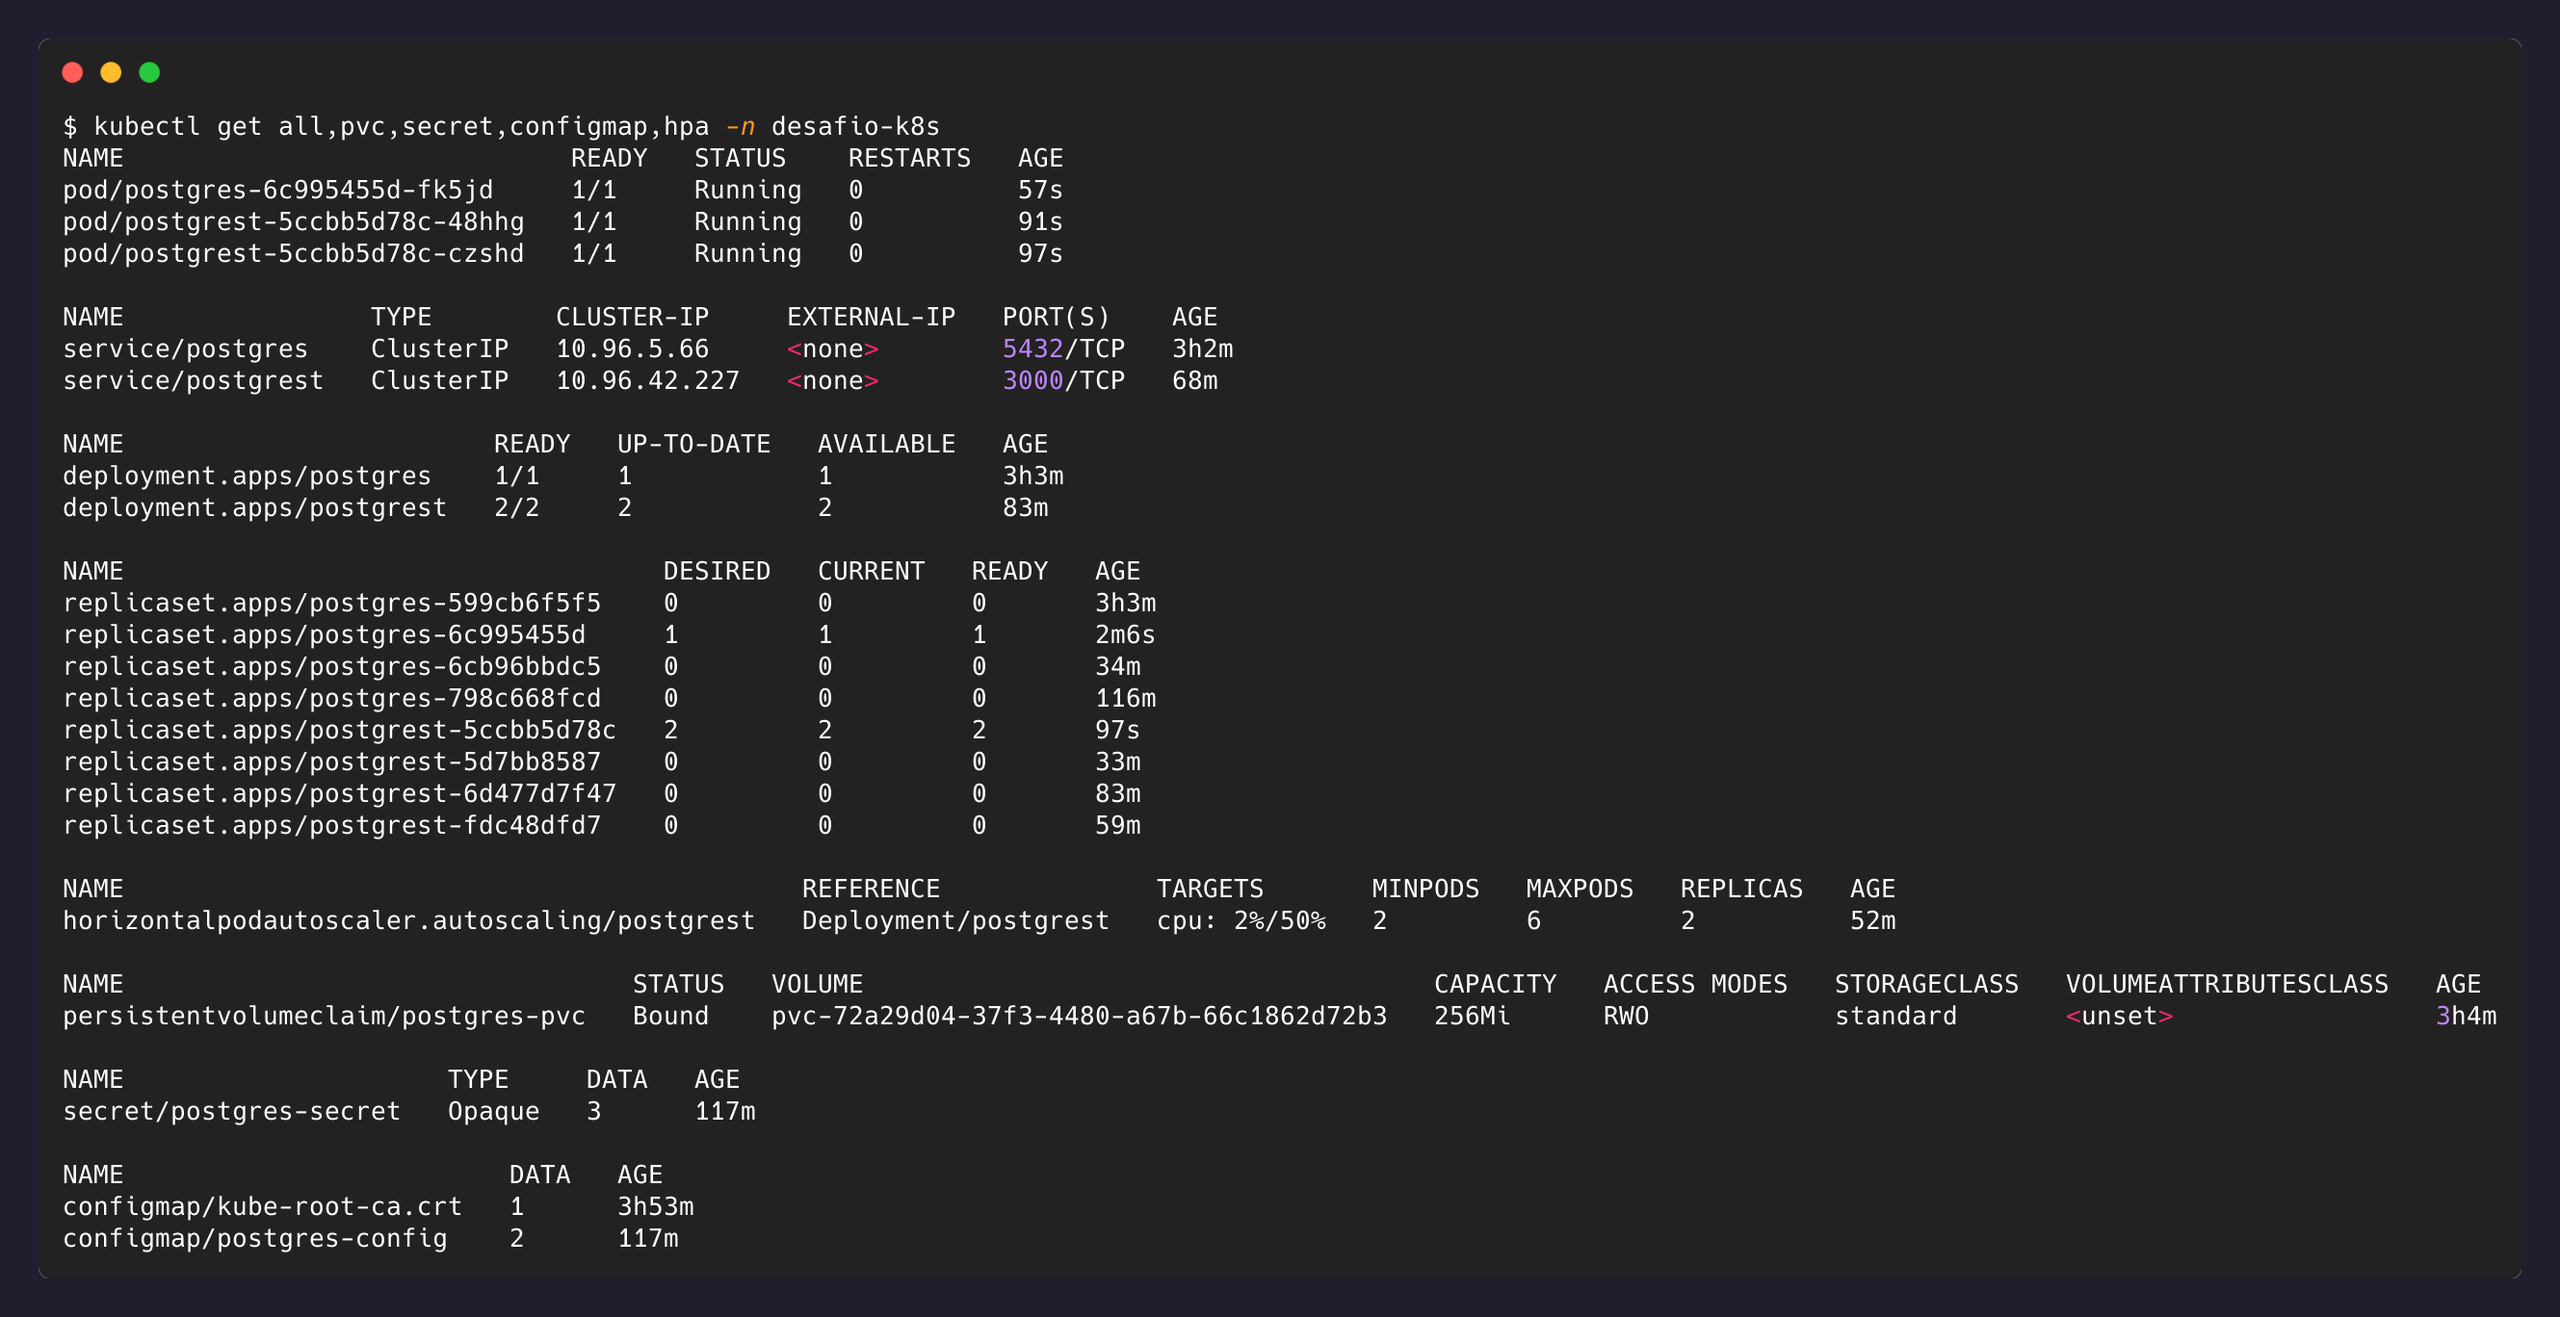
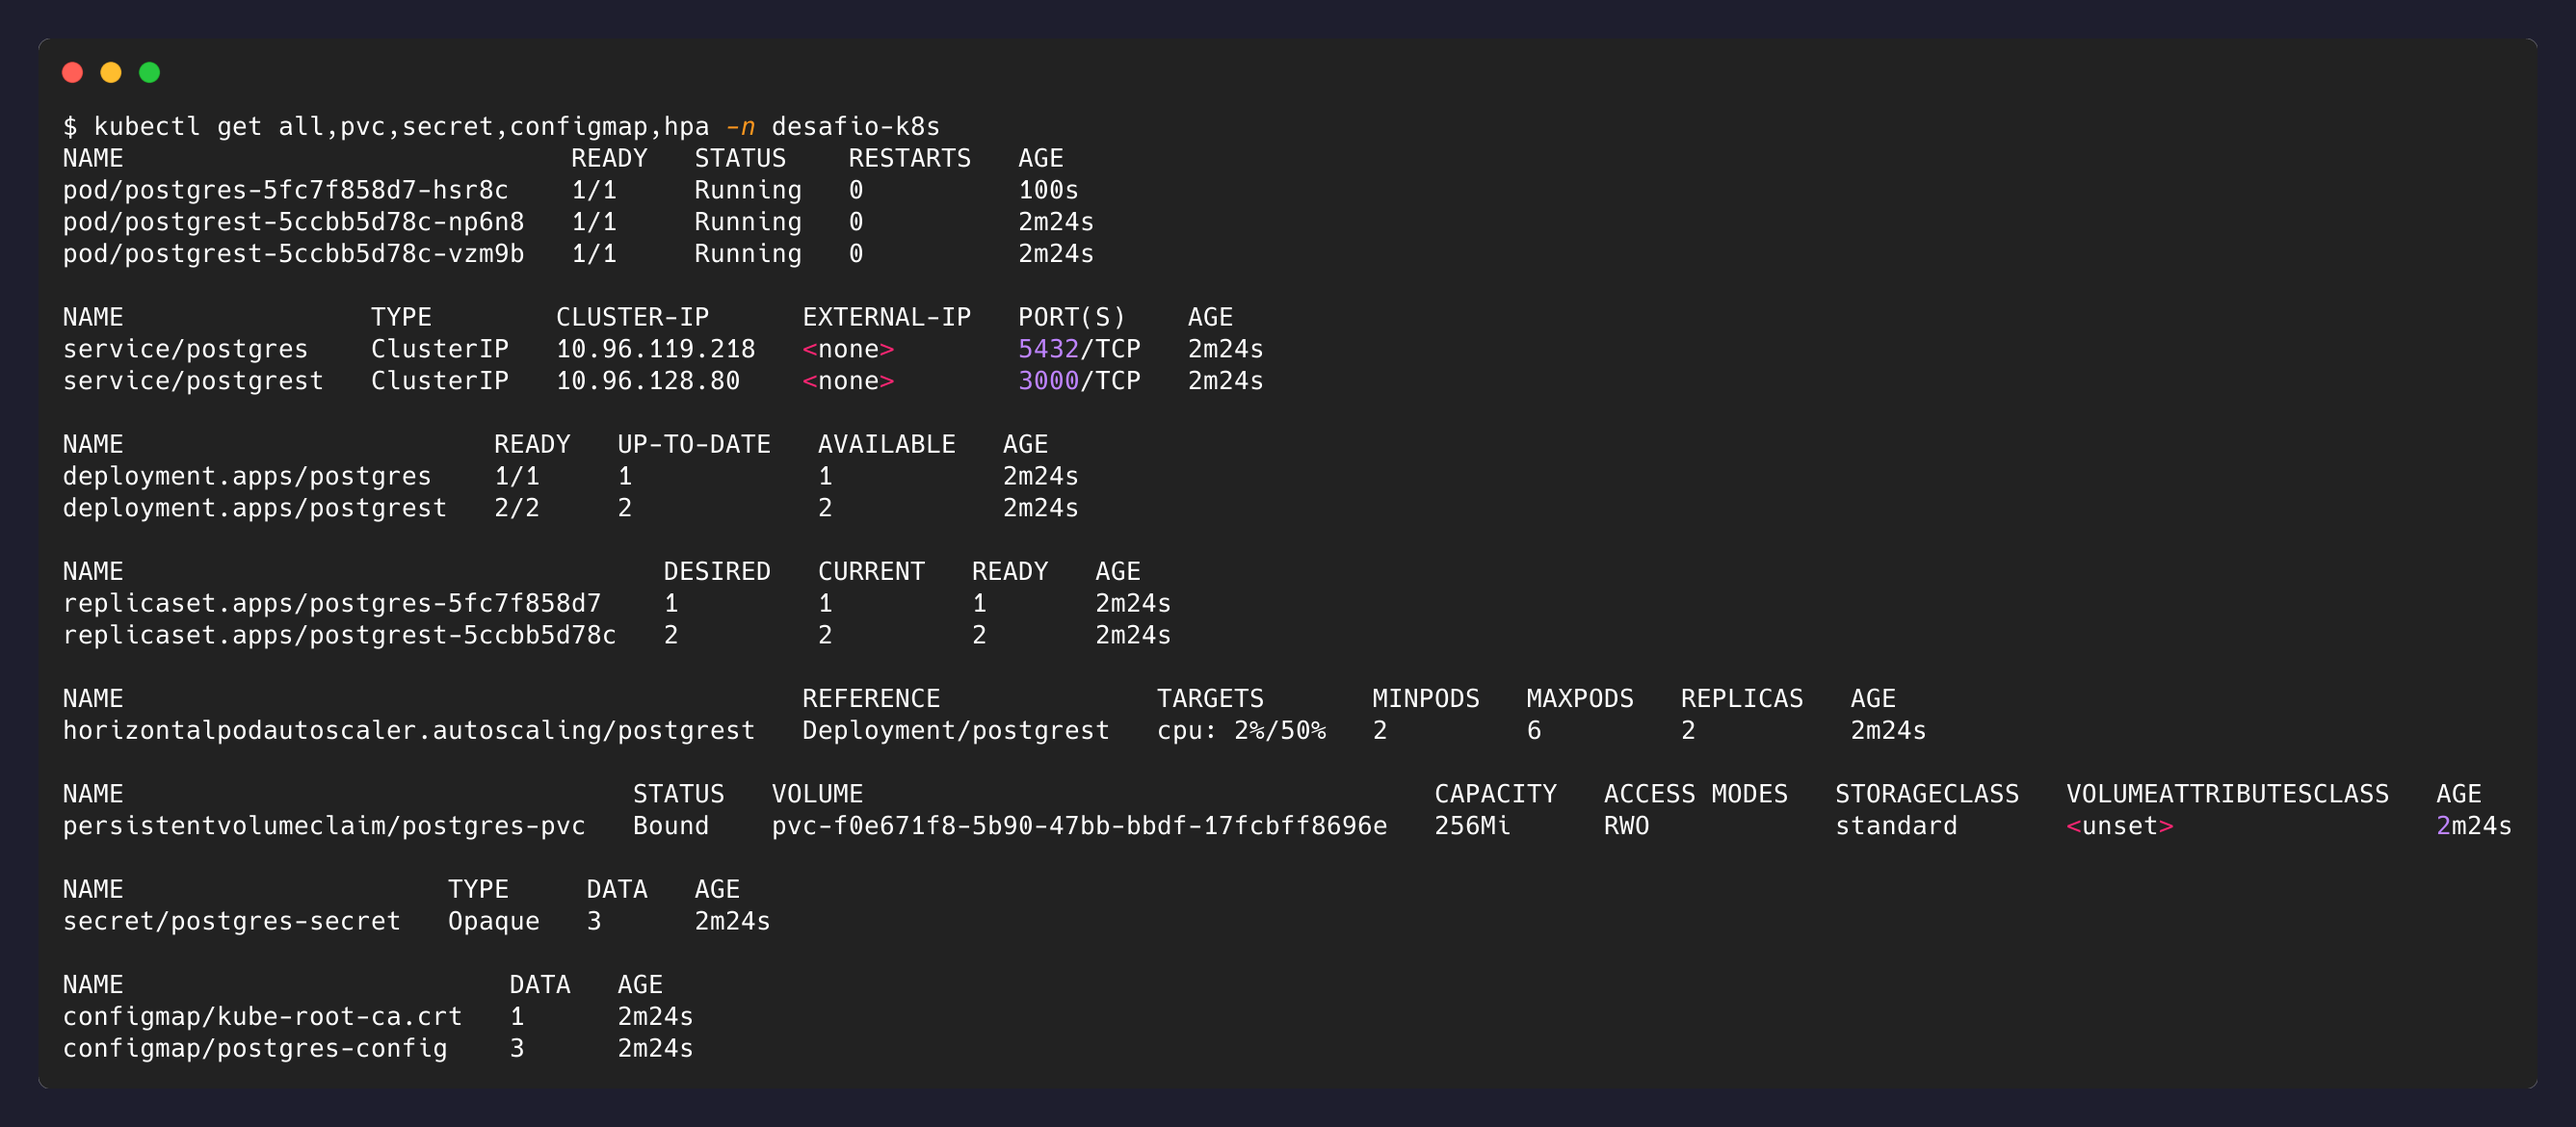
fix(k8s): auto-create todos table via docker-entrypoint-initdb.d
O cd.yml pegou isso rodando pela primeira vez num cluster efemero: a tabela
so existia porque foi criada manualmente via psql no nivel 4, nunca via
manifest. kubectl apply -f k8s/ sozinho agora deixa tudo funcional.

Changed region(s): [[0.0, 0.0308, 0.7807, 0.9538], [0.8119, 0.6769, 0.968, 0.8]]

diff --git a/docs/ci-cd.md b/docs/ci-cd.md
@@ -1,0 +1,61 @@
+# CI/CD
+
+## `ci.yml` — validação em Pull Requests
+
+Roda em todo PR para `develop` ou `main`. Três jobs independentes, todos **soft-fail**
+(reportam, não bloqueiam o merge — o objetivo aqui é visibilidade, não gate):
+
+- **kubeconform**: valida a sintaxe e o schema de cada manifest em `k8s/` contra a versão
+  do Kubernetes usada no projeto.
+- **Checkov**: escaneia `k8s/` em busca de configurações de segurança arriscadas. Os
+  achados reais dessa ferramenta guiaram boa parte de
+  [`docs/hardening-producao.md`](hardening-producao.md).
+- **Semgrep**: escaneia `tests/` (regras genéricas de qualidade/segurança em Python).
+
+## `cd.yml` — deploy e teste em push para `main`
+
+Roda em todo push pra `main` (ou seja, todo merge de PR, já que a branch é protegida).
+**Hard-fail** — se falhar, o job falha de verdade:
+
+1. Sobe um cluster `kind` efêmero (`helm/kind-action`) — do zero, sem nenhum estado
+   anterior.
+2. `kubectl apply -f k8s/`.
+3. Espera todos os Pods do namespace ficarem `Ready`.
+4. Roda `pytest tests/`, incluindo o teste automatizado de persistência.
+5. Em caso de falha, despeja os logs do Postgres e do PostgREST pra facilitar o debug.
+
+## Um bug real que o `cd.yml` encontrou na primeira execução
+
+Na primeira vez que o pipeline rodou de ponta a ponta, o passo "esperar Pods ficarem
+Ready" **falhou** — os dois Pods do PostgREST nunca saíam de `0/1`. O motivo, visível no
+`kubectl describe pod` capturado pelo próprio job de debug:
+
+```
+Warning  Unhealthy  Readiness probe failed: HTTP probe failed with statuscode: 404
+```
+
+A causa: a tabela `todos` nunca foi criada por nenhum manifest. Durante o Nível 4, ela
+foi criada manualmente com `kubectl exec ... psql -c "CREATE TABLE ..."` — um passo que
+existia só na minha cabeça (e no terminal), nunca no repositório. O cluster de
+desenvolvimento, rodando continuamente desde então, escondia esse problema: a tabela
+sempre esteve lá porque nunca recriei o volume do zero. O cluster efêmero do `cd.yml`,
+por definição, não tem esse histórico — e expôs exatamente a lacuna que testes manuais
+não pegam: **o que só existe na minha máquina não é reproduzível**.
+
+### Correção
+
+Movida a criação da tabela pro mecanismo nativo da imagem oficial do Postgres —
+qualquer script `.sql` colocado em `/docker-entrypoint-initdb.d/` roda automaticamente na
+**primeira inicialização** de um volume vazio. Implementado em
+[`k8s/02-postgres-configmap.yaml`](../k8s/02-postgres-configmap.yaml) (chave `init.sql`)
+montado como arquivo em
+[`k8s/04-postgres-deployment.yaml`](../k8s/04-postgres-deployment.yaml) via
+`volumeMounts` + `subPath`.
+
+Validado apagando o Namespace inteiro (forçando um volume genuinamente novo, replicando
+o cenário do cluster efêmero) e reaplicando `kubectl apply -f k8s/` do zero: todos os
+Pods ficaram `Ready` sozinhos, sem nenhum passo manual.
+
+Essa é exatamente a razão de ter um `cd.yml` com cluster efêmero em vez de só testar
+manualmente num cluster que já existe há dias — o ambiente de longa duração acumula
+estado que mascara passos esquecidos na automação.

diff --git a/README.md b/README.md
@@ -136,6 +136,8 @@ evidências e a resposta à pergunta de reflexão proposta:
 
 Decisões que vão além do que o desafio pediu (imagens fixadas por digest, labels padrão,
 estratégia de rollout) estão em [docs/hardening-producao.md](docs/hardening-producao.md).
+O pipeline de CI/CD, incluindo um bug real de reprodutibilidade que ele mesmo encontrou,
+está documentado em [docs/ci-cd.md](docs/ci-cd.md).
 
 ## Evidências
 
@@ -152,22 +154,24 @@ docs/
   nivel-N-*.md         # um documento por nível do desafio
   hardening-producao.md
   evidencias/          # prints referenciados pelos docs acima
-tests/                 # testes automatizados (pytest) — em construção, ver CI/CD abaixo
-.github/workflows/     # CI/CD — em construção
+tests/                 # pytest: teste automatizado de persistência
+.github/workflows/     # ci.yml (soft-fail) e cd.yml (hard-fail)
 ```
 
-## CI/CD (em construção)
+## CI/CD
 
-O plano é ter dois workflows do GitHub Actions:
+Dois workflows do GitHub Actions, detalhados em [docs/ci-cd.md](docs/ci-cd.md):
 
-- **`ci.yml`**: em PRs para `develop`/`main` — valida sintaxe dos manifests
-  (kubeconform/kubeval), roda Checkov em `k8s/` e Semgrep em `tests/`. Soft-fail (reporta,
-  não bloqueia).
+- **`ci.yml`**: em PRs para `develop`/`main` — kubeconform, Checkov (`k8s/`) e Semgrep
+  (`tests/`). Soft-fail (reporta, não bloqueia).
 - **`cd.yml`**: em push para `main` — sobe um cluster `kind` efêmero, aplica os
-  manifests, espera tudo ficar `Ready`, e roda `pytest` (incluindo o teste automatizado
-  de persistência). Hard-fail.
+  manifests, espera tudo ficar `Ready`, roda `pytest` (incluindo o teste automatizado de
+  persistência). Hard-fail.
 
-Este README será atualizado quando esses workflows estiverem prontos.
+O `cd.yml`, rodando num cluster efêmero de verdade, pegou uma lacuna real de
+reprodutibilidade que só existia porque o cluster de desenvolvimento nunca tinha sido
+recriado do zero — ver [docs/ci-cd.md](docs/ci-cd.md#um-bug-real-que-o-cdyml-encontrou-na-primeira-execução)
+pra a história completa.
 
 ## GitFlow
 

diff --git a/docs/nivel-4-postgrest-integracao.md b/docs/nivel-4-postgrest-integracao.md
@@ -18,9 +18,16 @@ CREATE TABLE IF NOT EXISTS todos (
 );
 ```
 
-Criada via `kubectl exec` no Pod do Postgres. `desafio_user` já é dono do banco
-`desafio_db` (o Postgres oficial torna o `POSTGRES_USER` do bootstrap automaticamente
-dono do `POSTGRES_DB`), então nenhum `GRANT` extra foi necessário.
+Criada originalmente via `kubectl exec` no Pod do Postgres, como exploração manual deste
+nível. `desafio_user` já é dono do banco `desafio_db` (o Postgres oficial torna o
+`POSTGRES_USER` do bootstrap automaticamente dono do `POSTGRES_DB`), então nenhum `GRANT`
+extra foi necessário.
+
+> **Atualização**: esse passo manual escondia uma lacuna real de reprodutibilidade — um
+> cluster novo, sem esse `kubectl exec`, nunca teria a tabela. Foi o próprio `cd.yml`
+> quem pegou isso rodando num cluster efêmero pela primeira vez. A criação da tabela
+> agora é automática via `/docker-entrypoint-initdb.d/`; detalhes em
+> [docs/ci-cd.md](ci-cd.md).
 
 ### 2. String de conexão no Secret ([`k8s/01-postgres-secret.yaml`](../k8s/01-postgres-secret.yaml))
 
